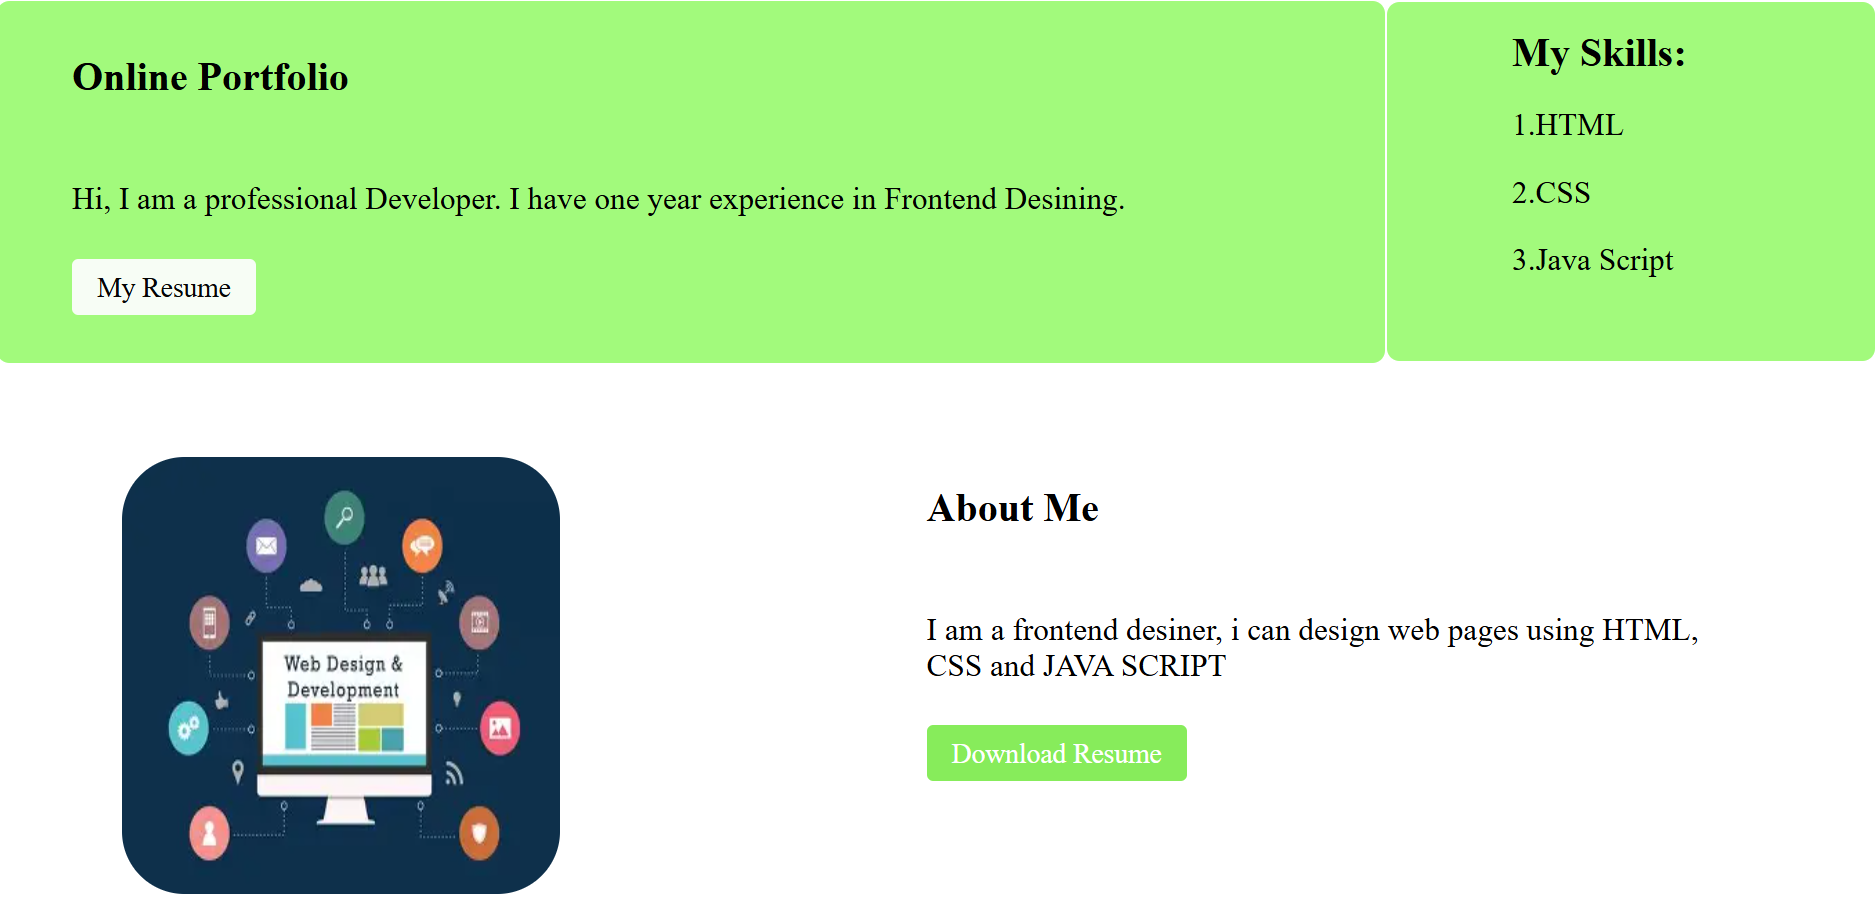
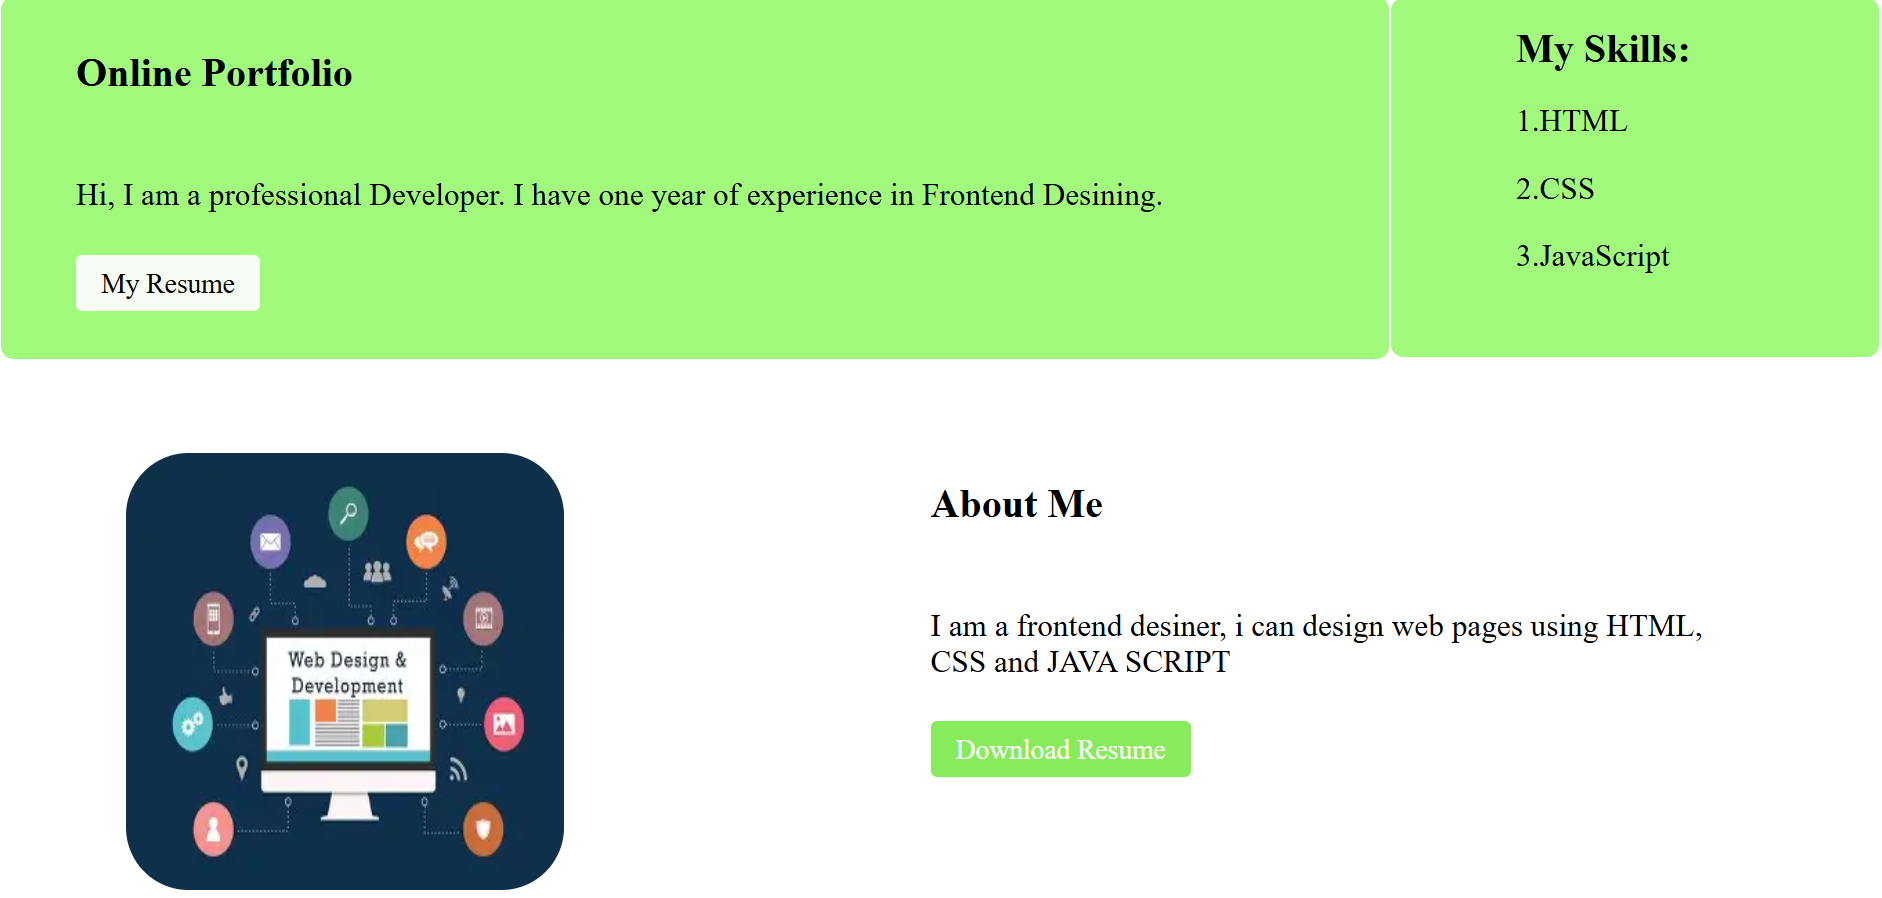
added readme

diff --git a/Portfoliopage/frontpage.html b/Portfoliopage/frontpage.html
@@ -10,14 +10,14 @@
     <div class="container1">
         <div class="block1">
         <h1>Online Portfolio</h1><br>
-        <p style="font-size: 25px;">Hi, I am a professional Developer. I have one year experience in Frontend Desining.</p><br>
+        <p style="font-size: 25px;">Hi, I am a professional Developer. I have one year of experience in Frontend Desining.</p><br>
         <a class="button1" href="resume.html">My Resume</a>
         </div>
         <div class="block12">
             <h1>My Skills:</h1>
             <p style="font-size: 25px;">1.HTML</p>
             <p style="font-size: 25px;">2.CSS</p>
-            <p style="font-size: 25px;">3.Java Script</p>
+            <p style="font-size: 25px;">3.JavaScript</p>
         </div>
     </div>
     <div class="mycontainer">

diff --git a/Portfoliopage/Readme.md b/Portfoliopage/Readme.md
@@ -1,0 +1,89 @@
+# Personal Portfolio Website
+
+## Overview
+
+This is a simple Personal Portfolio Website created using HTML and CSS. The website introduces me, showcases my skills, and provides access to my resume.
+
+## Features
+
+* Responsive portfolio layout
+* Introduction section
+* Skills section
+* About Me section
+* Resume page
+* Resume download option
+* Clean and simple user interface
+
+## Technologies Used
+
+* HTML5
+* CSS3
+
+## Project Structure
+
+```text
+portfolio-project/
+│
+├── index.html      # Portfolio homepage
+├── resume.html     # Resume page
+├── style.css       # Stylesheet
+├── download.webp   # Profile image
+└── README.md       # Project documentation
+```
+
+## Sections Included
+
+### Home Section
+
+* Portfolio title
+* Professional introduction
+* Resume navigation button
+
+### Skills Section
+
+* HTML
+* CSS
+* JavaScript
+
+### About Me Section
+
+* Brief introduction
+* Resume download button
+* Profile image
+
+### Resume Page
+
+* Professional summary
+* Education details
+* Skills
+* Personal information
+* Declaration
+
+## How to Run
+
+1. Download or clone the repository.
+2. Open the project folder.
+3. Open `index.html` in your web browser.
+
+## Future Improvements
+
+* Make the website fully responsive for mobile devices.
+* Add Projects section.
+* Add Contact section.
+* Add social media links.
+* Improve UI with animations and modern design.
+
+## Author
+
+Siri
+
+Frontend Developer passionate about creating clean and user-friendly websites using HTML, CSS, and JavaScript.
+
+## Screenshot of website
+
+<img class="img" src="portfolio.png" alt="" width="auto" height="auto">
+
+## Screenshot of resume
+
+<img class="img" src="res1.png" alt="" width="auto" height="auto">
+<img class="img" src="res2.png" alt="" width="auto" height="auto">